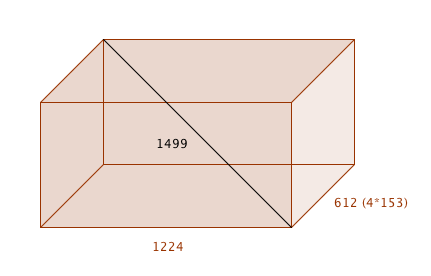
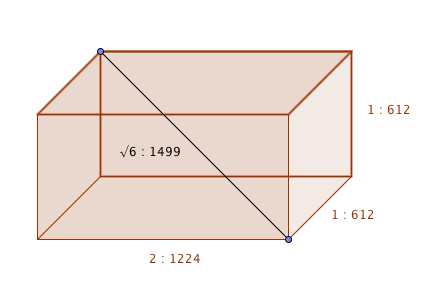
Table #1 correction and updated rectangle prism image

diff --git a/README.md b/README.md
@@ -12,7 +12,7 @@ Similar methods are used in the past around the world at least by Arabic scholar
 
 While Karpon as an application is investigating mathematical and geometric principles of the underlying text or their structure, one should not forget greater picture. This kind of tool is just one part of the interpretation systems and should be regarded as an addition to the textual criticism used nowadays.
 
-> "Study of the historical and cultural backgrounds for the author, the text, the original audience, classification of the type of literary genres present in the text, and an analysis of grammatical and syntactical features in the text itself" ([wiki] [4])
+> "Study of the historical and cultural backgrounds for the author, the text, the original audience, classification of the type of literary genres present in the text, and an analysis of grammatical and syntactical features in the text itself" *[wiki] [4]*
 
 must still be used together with Karpon to get intelligent results. Interestingly for mathematical minds and number theorists this can sort of open an unexpected door to the minds of ancient authors behind the manuscripts without really needing to learn original language in great depths. Mathematics and geometry are still considered to be the only true universal languages in the world.
 
@@ -20,7 +20,7 @@ must still be used together with Karpon to get intelligent results. Interestingl
 
 Core of the application is calculation of the numerical value of the word and phrases. It is good idea to do it manually in the beginning, so you can get clear idea of the method. Then you can pretty much leave this job for computers as they are made for this kind of repetitious and resource eating job. First you need to know corresponding alphabet and their numerical map. One for Greek script is:
 
-|---|1*10<sup>n</sup>|---|2*10<sup>n</sup>|---|3*10<sup>n</sup>|---|4*10<sup>n</sup>|---|5*10<sup>n</sup>|---|6*10<sup>n</sup>|---|7*10<sup>n</sup>|---|8*10<sup>n</sup>|---|9*10<sup>n</sup>|
+|   |1*10<sup>n</sup>|   |2*10<sup>n</sup>|   |3*10<sup>n</sup>|   |4*10<sup>n</sup>|   |5*10<sup>n</sup>|   |6*10<sup>n</sup>|   |7*10<sup>n</sup>|   |8*10<sup>n</sup>|   |9*10<sup>n</sup>|
 |:-:|:-:|:-:|:-:|:-:|:-:|:-:|:-:|:-:|:-:|:-:|:-:|:-:|:-:|:-:|:-:|:-:|
 |α  |1  |β    |2  |γ  |3  |δ  |4  |ε  |5  |ϛ  |6  |ζ  |7  |η  |8  |θ  |9  |
 |ι  |10 |κ    |20 |λ  |30 |μ  |40 |ν  |50 |ξ  |60 |ο  |70 |π  |80 |ϙ,Ϟ|90 |
